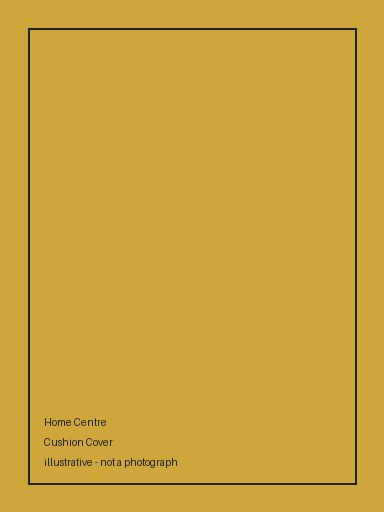
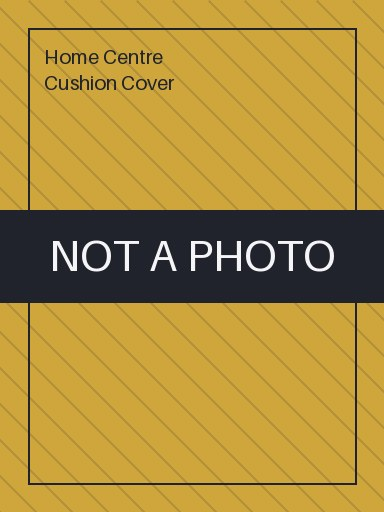
Home tiles: legible disclosure at display size, and a real --check gap closed
Review fix for Task 4. Two issues:

1. The tile's "illustrative - not a photograph" disclosure was rendered in
   PIL's ~11px default bitmap font. Scaled to the actual card sizes it is
   shown at (96x128 catalog card, ~156pt carousel card) it was a few px tall
   and unreadable -- exactly the signal an invented product tile most needs
   to carry. Replaced it with a short, large disclosure ("NOT A PHOTO",
   ImageFont.load_default(size=44)) set on a solid high-contrast band, plus
   a diagonal hatch across the whole tile as an independent non-text cue.
   Verified by actually downscaling a generated tile to 96x128 and 156x208
   and inspecting those files, not the full-size source.

2. build.py --check's missing-image check only looked at what was on disk
   at validate() time. If home_tiles.write() were ever moved to after
   write_images_module(), the require() map would silently omit the home
   ids (only a print("WARNING: ...") that nothing enforces) while the files
   still landed on disk moments later in the same run, so the disk check
   would pass and CHECK PASSED would print regardless. write_images_module()
   now returns its omitted list and validate() fails on it directly, so the
   check catches the map's own omission instead of a disk snapshot that
   can't tell the two orderings apart. Verified by reproducing the bad
   ordering, confirming CHECK FAILED with the omitted ids listed, then
   restoring the correct order and confirming CHECK PASSED again.

Changed region(s): [[0.0, 0.4062, 1.0, 0.5938], [0.0938, 0.8125, 0.4688, 0.9375], [0.0938, 0.0938, 0.4688, 0.1875]]

diff --git a/tools/catalog/home_tiles.py b/tools/catalog/home_tiles.py
@@ -4,7 +4,14 @@ The image mirror has no photograph of a product that does not exist. These are
 deliberately not photographic: a borrowed fashion photograph would be the
 actual lie, because a participant would read it as a real listing.
 
-Flat colour field, product name, and a marker that says what it is.
+The tile is the asset a participant actually sees, and it is seen small: a
+384x512 source scales to a ~96x128 catalog card (0.25x) and a ~156pt carousel
+card (~0.41x). A caption sized for the full canvas disappears at those sizes,
+so the disclosure here is deliberately short, large, and backed by a solid
+band -- a shape a viewer registers without reading anything -- plus a
+diagonal hatch across the whole tile as a second, independent non-text cue.
+Brand and product name stay on the tile but are allowed to be smaller: they
+are context, not the thing that must survive scaling.
 """
 
 import os
@@ -23,17 +30,48 @@ SWATCHES = {
 }
 FALLBACK = (200, 200, 205)
 
+DARK = (32, 34, 44)
+LIGHT = (245, 245, 247)
+
+DISCLOSURE = "NOT A PHOTO"
+
+
+def _luma(rgb):
+    return 0.2126 * rgb[0] + 0.7152 * rgb[1] + 0.0722 * rgb[2]
+
 
 def _ink(rgb):
-    """Readable text colour for a background, by perceived luminance."""
-    luma = 0.2126 * rgb[0] + 0.7152 * rgb[1] + 0.0722 * rgb[2]
-    return (32, 34, 44) if luma > 140 else (245, 245, 247)
+    """Readable text/outline colour for a background, by perceived luminance."""
+    return DARK if _luma(rgb) > 140 else LIGHT
+
+
+def _band_pair(rgb):
+    """(band fill, text fill) -- always maximum contrast, independent of the
+    swatch, so the disclosure is legible regardless of which colour it lands
+    on."""
+    return (DARK, LIGHT) if _luma(rgb) > 140 else (LIGHT, DARK)
+
+
+def _mix(a, b, t):
+    return tuple(int(round(a[i] + (b[i] - a[i]) * t)) for i in range(3))
+
+
+def _draw_hatch(draw, size, rgb, ink, spacing=36):
+    """Diagonal hatch across the whole tile -- a texture cue that survives
+    heavy downscaling even when no text does."""
+    w, h = size
+    colour = _mix(rgb, ink, 0.16)
+    for x in range(-h, w, spacing):
+        draw.line([(x, 0), (x + h, h)], fill=colour, width=2)
 
 
 def write(parents, out_dir):
-    from PIL import Image, ImageDraw
+    from PIL import Image, ImageDraw, ImageFont
 
     os.makedirs(out_dir, exist_ok=True)
+    disclosure_font = ImageFont.load_default(size=44)
+    label_font = ImageFont.load_default(size=20)
+
     written = []
     for parent in parents:
         for colourway in parent["colourways"]:
@@ -41,10 +79,25 @@ def write(parents, out_dir):
             image = Image.new("RGB", SIZE, rgb)
             draw = ImageDraw.Draw(image)
             ink = _ink(rgb)
+
+            _draw_hatch(draw, SIZE, rgb, ink)
             draw.rectangle([28, 28, SIZE[0] - 28, SIZE[1] - 28], outline=ink, width=2)
-            draw.text((44, SIZE[1] - 96), parent["brand"], fill=ink)
-            draw.text((44, SIZE[1] - 76), colourway["display_name"], fill=ink)
-            draw.text((44, SIZE[1] - 56), "illustrative - not a photograph", fill=ink)
+
+            band_fill, text_fill = _band_pair(rgb)
+            band_top, band_bottom = SIZE[1] // 2 - 46, SIZE[1] // 2 + 46
+            draw.rectangle([0, band_top, SIZE[0], band_bottom], fill=band_fill)
+            bbox = draw.textbbox((0, 0), DISCLOSURE, font=disclosure_font)
+            text_w, text_h = bbox[2] - bbox[0], bbox[3] - bbox[1]
+            draw.text(
+                ((SIZE[0] - text_w) / 2 - bbox[0], (band_top + band_bottom) / 2 - text_h / 2 - bbox[1]),
+                DISCLOSURE,
+                fill=text_fill,
+                font=disclosure_font,
+            )
+
+            draw.text((44, 44), parent["brand"], fill=ink, font=label_font)
+            draw.text((44, 70), colourway["display_name"], fill=ink, font=label_font)
+
             image.save(
                 os.path.join(out_dir, "%d.jpg" % colourway["product_id"]),
                 "JPEG",

diff --git a/tools/catalog/build.py b/tools/catalog/build.py
@@ -444,6 +444,7 @@ def write_images_module(product_ids):
 
     if omitted:
         print("WARNING: %d ids not present in the image directory (omitted from CATALOG_IMAGES): %s" % (len(omitted), omitted))
+    return omitted
 
 
 def prune_images(product_ids):
@@ -500,7 +501,7 @@ def run(force=False, check=False):
     fetch_images.run(fetch_ids, IMAGE_DIR, force=force)
     home_tiles.write(home_parents, IMAGE_DIR)
     prune_images(product_ids)
-    write_images_module(product_ids)
+    omitted_from_images_module = write_images_module(product_ids)
 
     for name, payload in (
         ("catalog.json", catalog),
@@ -515,11 +516,11 @@ def run(force=False, check=False):
         print("wrote %s" % os.path.join(DATA_DIR, name))
 
     if check:
-        validate(catalog, wishlist, scenarios, product_ids)
+        validate(catalog, wishlist, scenarios, product_ids, omitted_from_images_module)
     return catalog
 
 
-def validate(catalog, wishlist, scenarios, product_ids):
+def validate(catalog, wishlist, scenarios, product_ids, omitted_from_images_module=()):
     from PIL import Image
 
     problems = []
@@ -527,6 +528,18 @@ def validate(catalog, wishlist, scenarios, product_ids):
     missing = [p for p in product_ids if not os.path.exists(os.path.join(IMAGE_DIR, "%d.jpg" % p))]
     if missing:
         problems.append("%d catalog images missing on disk" % len(missing))
+
+    # A file existing on disk at validate-time does not prove
+    # write_images_module() saw it: if image generation happens after the
+    # require() map is written, the file check above passes while the map
+    # silently dropped the entry (write_images_module() only prints a
+    # WARNING for that, which nothing enforces). Check the map's own report
+    # of what it left out, independent of what is on disk right now.
+    if omitted_from_images_module:
+        problems.append(
+            "%d colourway(s) missing from CATALOG_IMAGES (images.ts) despite being in the catalog: %s"
+            % (len(omitted_from_images_module), list(omitted_from_images_module))
+        )
 
     for pid in product_ids[:: max(1, len(product_ids) // 25)]:
         path = os.path.join(IMAGE_DIR, "%d.jpg" % pid)

diff --git a/docs/shadow-report.md b/docs/shadow-report.md
@@ -22,9 +22,9 @@ Matching ran 1,140 times across three modalities and rendered nothing.
 
 ### Search latency delta — the S8 gate
 
-Search alone: **0.06 ms** per query.
-Search with matching in the same tick: **0.15 ms**.
-Delta: **+0.09 ms** per query, against a 120 ms budget.
+Search alone: **0.05 ms** per query.
+Search with matching in the same tick: **0.09 ms**.
+Delta: **+0.03 ms** per query, against a 120 ms budget.
 
 At this magnitude the delta is indistinguishable from measurement
 noise -- in-process JavaScript timing at the sub-millisecond scale is

diff --git a/docs/gate-report.md b/docs/gate-report.md
@@ -3,7 +3,7 @@
 Generated by `npm run gates`. Every row is measured on the committed
 catalog, so two runs on two machines produce the same numbers.
 
-Run at 2026-08-27T10:40:28.508Z.
+Run at 2026-08-27T10:49:31.116Z.
 
 | Epic | Requirement | Measured | Result |
 |---|---|---|---|
